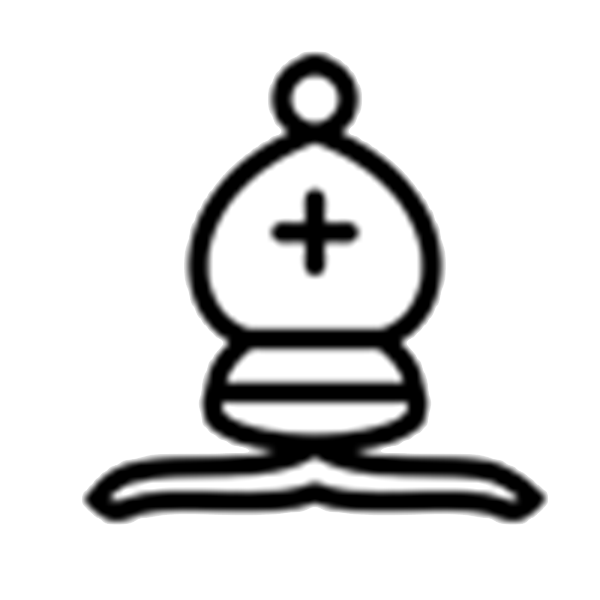
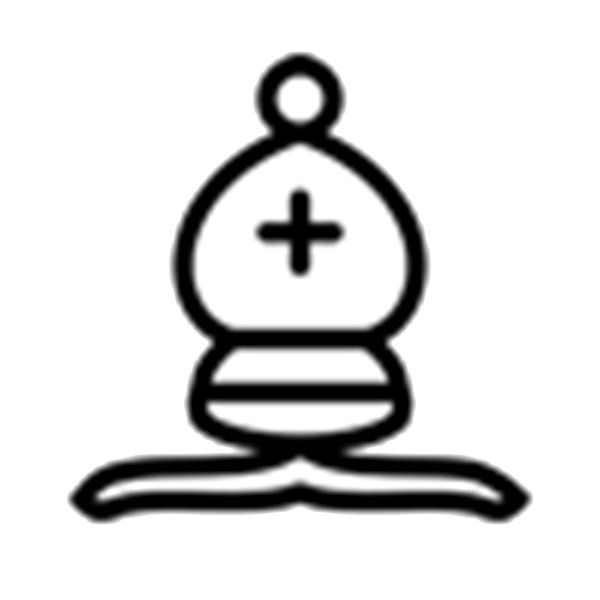
recenter piece pngs

diff --git a/shared/concentric-rules.ts b/shared/concentric-rules.ts
@@ -331,49 +331,49 @@ export const initialPieces: RulesPiece[] = [
   { type: "pawn", color: "blk", position: "r9c7" },
 
   //fill board
-  { type: "queen", color: "blk", position: "r5c1"},
-  { type: "queen", color: "blk", position: "r5c2"},
-  { type: "queen", color: "blk", position: "r5c3"},
-  { type: "queen", color: "blk", position: "r5c4"},
-  { type: "queen", color: "blk", position: "r5c5"},
-  { type: "queen", color: "blk", position: "r5c6"},
-  { type: "queen", color: "blk", position: "r5c7"},
-  { type: "queen", color: "blk", position: "r5c8"},
-  { type: "queen", color: "blk", position: "r5c9"},
+  // { type: "queen", color: "blk", position: "r5c1"},
+  // { type: "queen", color: "blk", position: "r5c2"},
+  // { type: "queen", color: "blk", position: "r5c3"},
+  // { type: "queen", color: "blk", position: "r5c4"},
+  // { type: "queen", color: "blk", position: "r5c5"},
+  // { type: "queen", color: "blk", position: "r5c6"},
+  // { type: "queen", color: "blk", position: "r5c7"},
+  // { type: "queen", color: "blk", position: "r5c8"},
+  // { type: "queen", color: "blk", position: "r5c9"},
 
-  { type: "queen", color: "blk", position: "r6c1"},
-  { type: "queen", color: "blk", position: "r6c2"},
-  { type: "queen", color: "blk", position: "r6c3"},
-  { type: "queen", color: "blk", position: "r6c4"},
-  { type: "queen", color: "blk", position: "r6c5"},
-  { type: "knight", color: "blk", position: "r6c6"},
-  { type: "queen", color: "blk", position: "r6c7"},
-  { type: "queen", color: "blk", position: "r6c8"},
-  { type: "queen", color: "blk", position: "r6c9"},
-  { type: "queen", color: "blk", position: "r6c10"},
-  { type: "queen", color: "blk", position: "r6c11"},
+  // { type: "queen", color: "blk", position: "r6c1"},
+  // { type: "queen", color: "blk", position: "r6c2"},
+  // { type: "queen", color: "blk", position: "r6c3"},
+  // { type: "queen", color: "blk", position: "r6c4"},
+  // { type: "queen", color: "blk", position: "r6c5"},
+  // { type: "knight", color: "blk", position: "r6c6"},
+  // { type: "queen", color: "blk", position: "r6c7"},
+  // { type: "queen", color: "blk", position: "r6c8"},
+  // { type: "queen", color: "blk", position: "r6c9"},
+  // { type: "queen", color: "blk", position: "r6c10"},
+  // { type: "queen", color: "blk", position: "r6c11"},
 
-  { type: "queen", color: "blk", position: "r7c1"},
-  { type: "queen", color: "blk", position: "r7c2"},
-  { type: "queen", color: "blk", position: "r7c3"},
-  { type: "queen", color: "blk", position: "r7c4"},
-  { type: "queen", color: "blk", position: "r7c5"},
-  { type: "knight", color: "blk", position: "r7c6"},
-  { type: "queen", color: "blk", position: "r7c7"},
-  { type: "queen", color: "blk", position: "r7c8"},
-  { type: "queen", color: "blk", position: "r7c9"},
-  { type: "queen", color: "blk", position: "r7c10"},
-  { type: "queen", color: "blk", position: "r7c11"},
+  // { type: "queen", color: "blk", position: "r7c1"},
+  // { type: "queen", color: "blk", position: "r7c2"},
+  // { type: "queen", color: "blk", position: "r7c3"},
+  // { type: "queen", color: "blk", position: "r7c4"},
+  // { type: "queen", color: "blk", position: "r7c5"},
+  // { type: "knight", color: "blk", position: "r7c6"},
+  // { type: "queen", color: "blk", position: "r7c7"},
+  // { type: "queen", color: "blk", position: "r7c8"},
+  // { type: "queen", color: "blk", position: "r7c9"},
+  // { type: "queen", color: "blk", position: "r7c10"},
+  // { type: "queen", color: "blk", position: "r7c11"},
 
-  { type: "queen", color: "blk", position: "r8c1"},
-  { type: "queen", color: "blk", position: "r8c2"},
-  { type: "queen", color: "blk", position: "r8c3"},
-  { type: "queen", color: "blk", position: "r8c4"},
-  { type: "queen", color: "blk", position: "r8c5"},
-  { type: "queen", color: "blk", position: "r8c6"},
-  { type: "queen", color: "blk", position: "r8c7"},
-  { type: "queen", color: "blk", position: "r8c8"},
-  { type: "queen", color: "blk", position: "r8c9"},
+  // { type: "queen", color: "blk", position: "r8c1"},
+  // { type: "queen", color: "blk", position: "r8c2"},
+  // { type: "queen", color: "blk", position: "r8c3"},
+  // { type: "queen", color: "blk", position: "r8c4"},
+  // { type: "queen", color: "blk", position: "r8c5"},
+  // { type: "queen", color: "blk", position: "r8c6"},
+  // { type: "queen", color: "blk", position: "r8c7"},
+  // { type: "queen", color: "blk", position: "r8c8"},
+  // { type: "queen", color: "blk", position: "r8c9"},
 ];
 
 export function computePieceState(moves: Move[]): RulesPiece[] {
